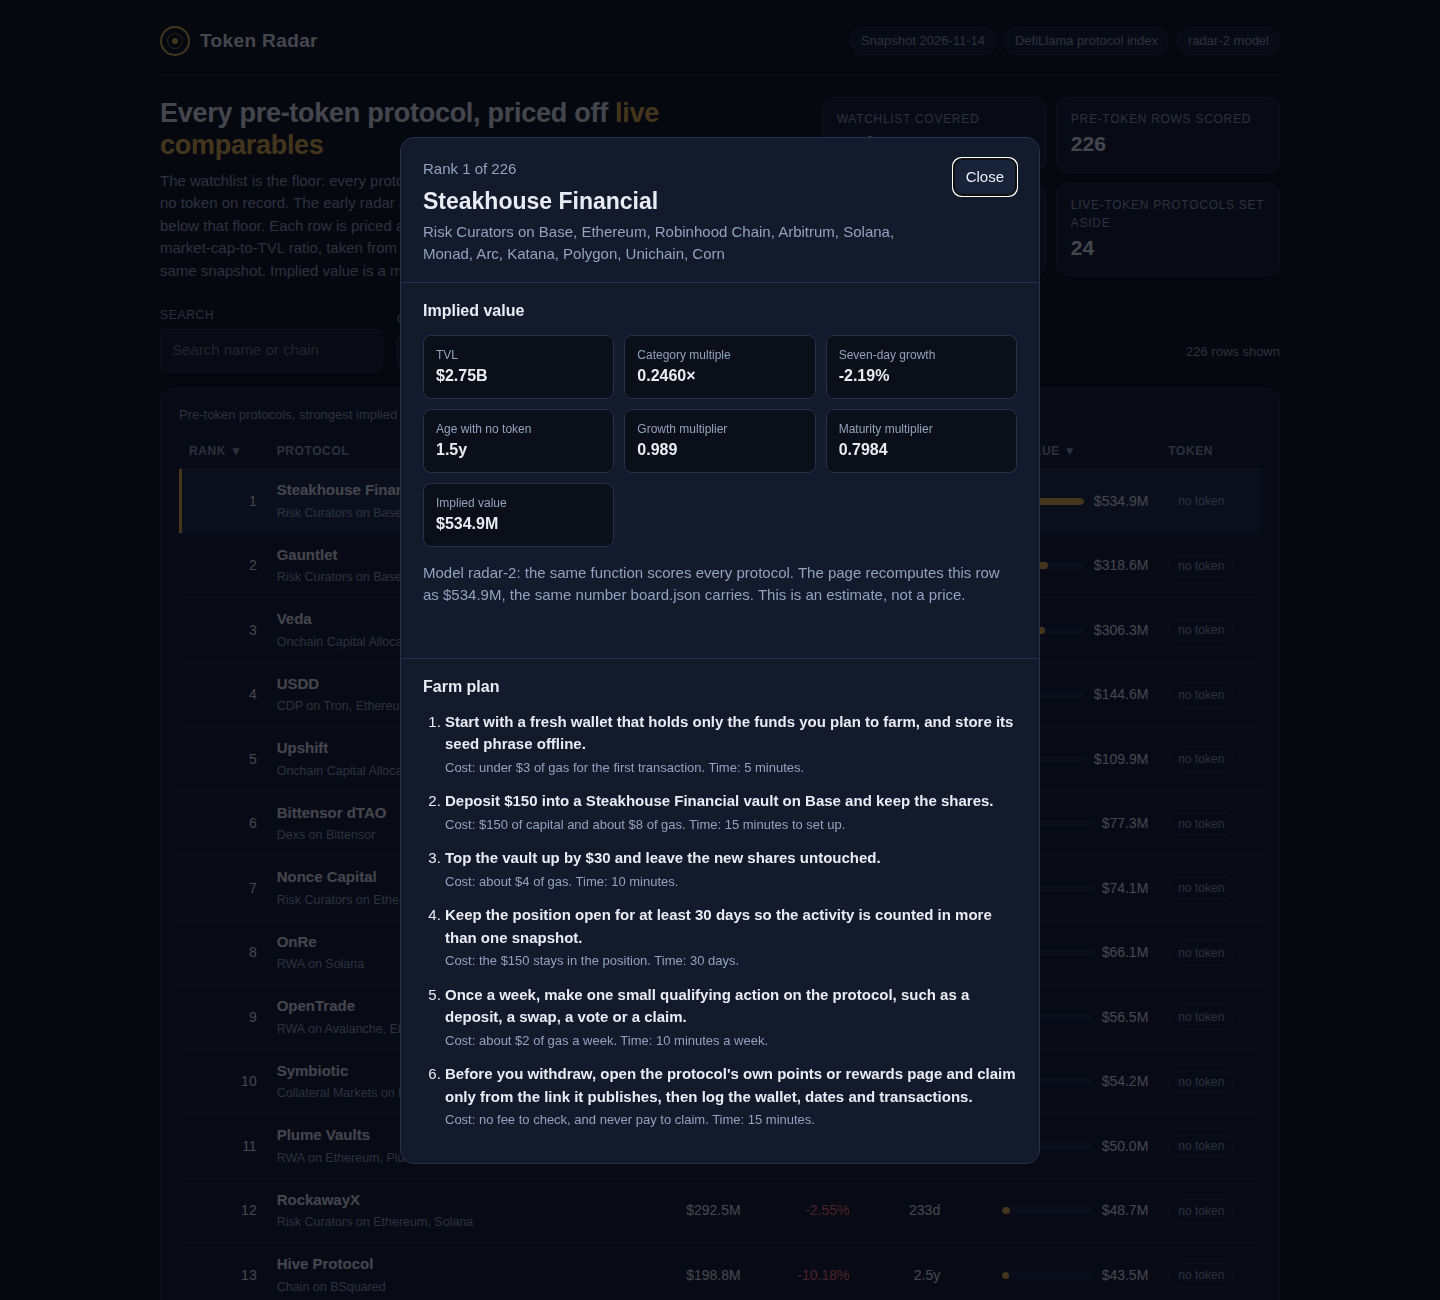
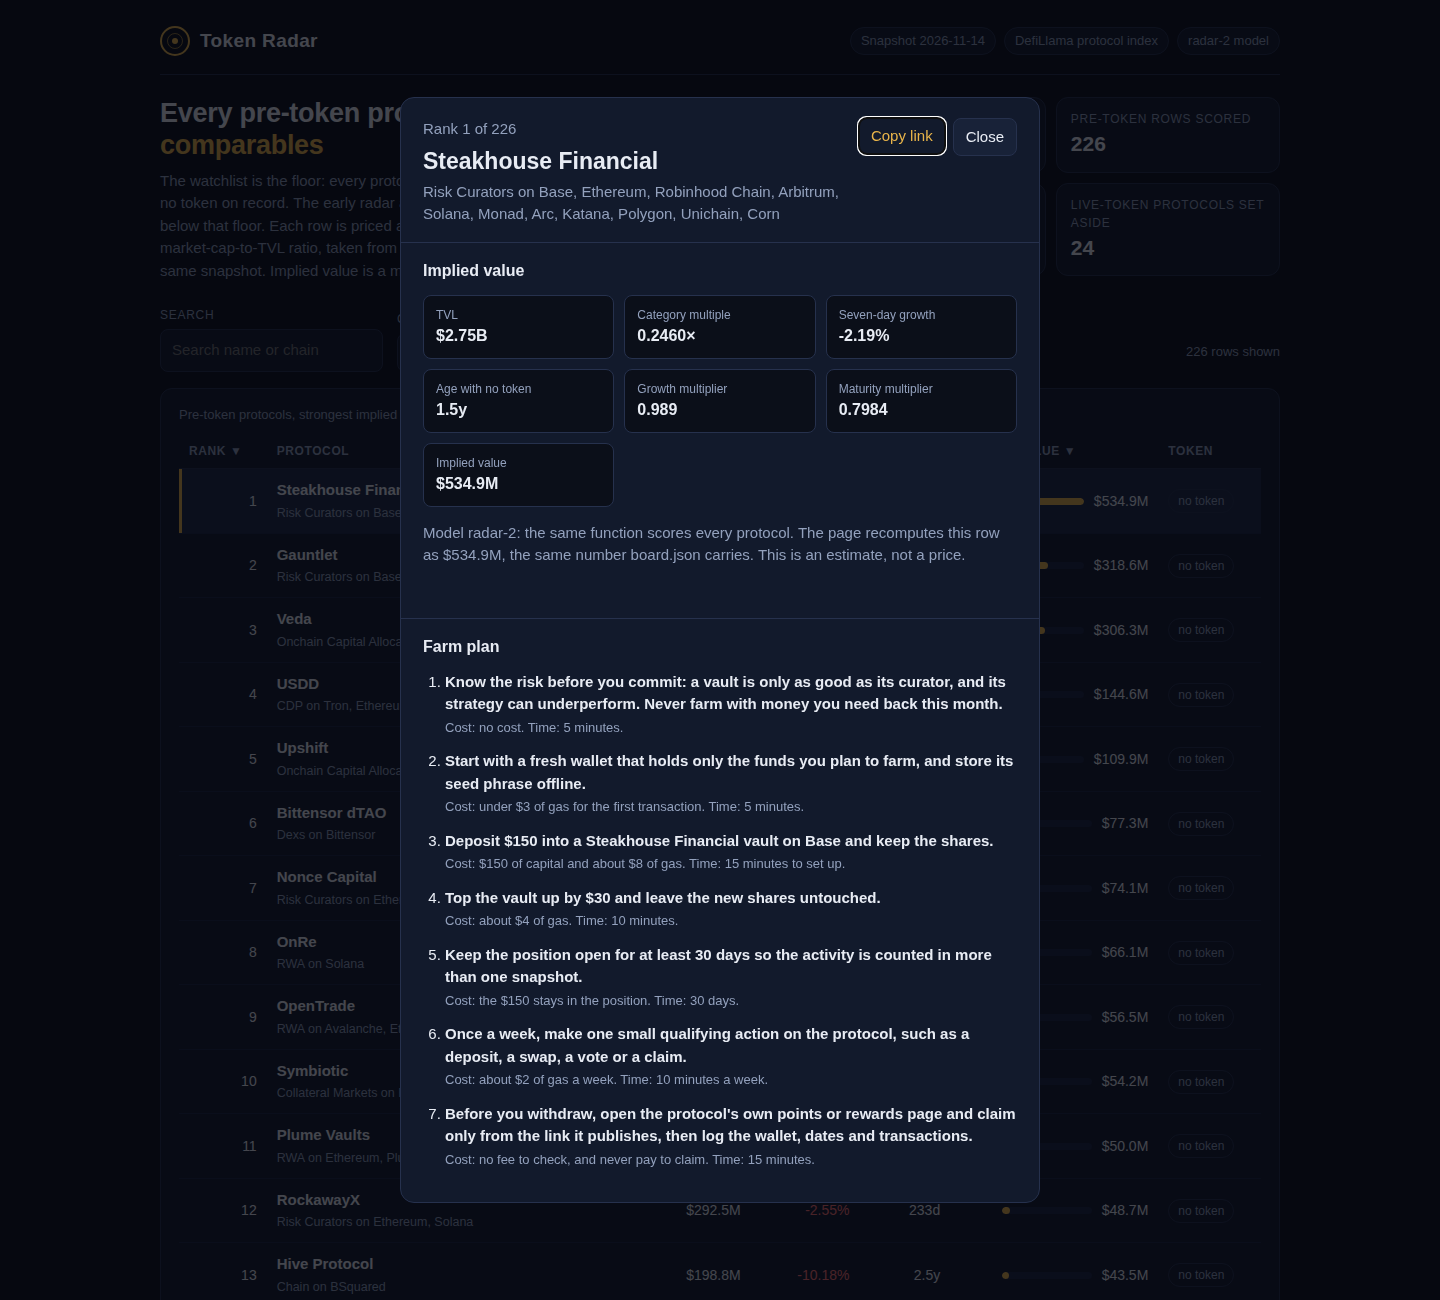
Farm plans name the risk first; copy-link button; run summary

Changed region(s): [[0.2812, 0.4923, 0.6875, 0.8923], [0.2812, 0.0615, 0.7188, 0.4615], [0.5625, 0.2154, 0.6562, 0.3692]]

diff --git a/dashboard/app.js b/dashboard/app.js
@@ -118,12 +118,32 @@
     if (s.length < 20) s = s + " Hold the position and check the protocol's own page.";
     return s;
   }
+  // What can go wrong with this category, in one line: the plan names the risk before the money
+  // moves. This is the same derivation as lib/model.ts, so the page's plan matches board.json.
+  function riskFor(p) {
+    var c = (p.category || '').toLowerCase();
+    if (c.indexOf('lend') >= 0 || c.indexOf('cdp') >= 0 || c.indexOf('collateral') >= 0) return 'a supplied asset can be liquidated if the collateral behind it falls';
+    if (c.indexOf('dex') >= 0) return 'a liquidity position loses value when the two sides move apart';
+    if (c.indexOf('yield') >= 0) return 'yields compress as more capital chases the same strategy';
+    if (c.indexOf('leveraged farm') >= 0) return 'leverage multiplies losses as fast as gains, and the position can be liquidated';
+    if (c.indexOf('bridge') >= 0) return 'bridged funds depend on the bridge staying solvent and unhacked';
+    if (c.indexOf('liquid staking') >= 0 || c.indexOf('restak') >= 0 || c.indexOf('staking') >= 0) return 'the staking receipt can trade below the staked asset while exits queue';
+    if (c.indexOf('perpetual') >= 0 || c.indexOf('derivative') >= 0) return 'a leveraged position can be liquidated by one sharp move';
+    if (c.indexOf('prediction') >= 0) return 'a prediction market pays nothing if the outcome goes the other way';
+    if (c.indexOf('curator') >= 0 || c.indexOf('allocator') >= 0 || c.indexOf('onchain capital') >= 0) return 'a vault is only as good as its curator, and its strategy can underperform';
+    if (c.indexOf('stable') >= 0) return 'a stable asset can lose its peg if its backing is questioned';
+    if (c.indexOf('rwa') >= 0) return 'real-world backing depends on the issuer staying solvent and honest';
+    if (c.indexOf('insurance') >= 0) return 'cover pays only for the events the policy names, and claims can be disputed';
+    if (c.indexOf('basis') >= 0) return 'the funding rate can turn negative and the strategy pays instead of earning';
+    return 'an airdrop is never guaranteed, and the position can lose value while you wait';
+  }
   function farmSteps(p) {
     var chain = chainOf(p);
     var capital = capitalFor(p);
     var hold = holdDaysFor(p.age_days);
     var gas = capital >= 150 ? 8 : 4;
     return [
+      { text: 'Know the risk before you commit: ' + riskFor(p) + '. Never farm with money you need back this month.', cost: 'no cost', time: '5 minutes' },
       { text: 'Start with a fresh wallet that holds only the funds you plan to farm, and store its seed phrase offline.', cost: 'under $3 of gas for the first transaction', time: '5 minutes' },
       { text: actionFor(p, capital, chain), cost: '$' + capital + ' of capital and about $' + gas + ' of gas', time: '15 minutes to set up' },
       { text: secondActionFor(p, capital, chain), cost: 'about $' + Math.max(2, Math.round(gas / 2)) + ' of gas', time: '10 minutes' },
@@ -368,7 +388,18 @@
         el('h2', { id: 'detail-title', text: row.name }),
         el('p', { class: 'sub', text: (row.category || 'Other') + ' on ' + (row.chains && row.chains.length ? row.chains.join(', ') : 'an unnamed chain') })
       ),
-      el('button', { class: 'close', type: 'button', 'aria-label': 'Close details', text: 'Close', onclick: function () { dialog.close(); } })
+      el('div', { class: 'detail-actions' },
+        el('button', { class: 'copy', type: 'button', 'aria-label': 'Copy a link to this row', text: 'Copy link', onclick: function (ev) {
+          var link = window.location.href.split('#')[0] + '#p=' + row.slug;
+          var done = function () { ev.target.textContent = 'Copied'; window.setTimeout(function () { ev.target.textContent = 'Copy link'; }, 1500); };
+          if (navigator.clipboard && navigator.clipboard.writeText) {
+            navigator.clipboard.writeText(link).then(done, function () { window.prompt('Copy this link', link); });
+          } else {
+            window.prompt('Copy this link', link);
+          }
+        } }),
+        el('button', { class: 'close', type: 'button', 'aria-label': 'Close details', text: 'Close', onclick: function () { dialog.close(); } })
+      )
     ));
     dialog.appendChild(el('section', { class: 'detail-section' },
       el('h3', { text: 'Implied value' }),

diff --git a/lib/model.ts b/lib/model.ts
@@ -400,9 +400,29 @@ function secondActionFor(p: SnapshotProtocol, capital: number, chain: string): s
   return `Return to ${name} once a week and repeat the deposit with $${Math.max(10, Math.round(capital / 5))} more.`;
 }
 
+/** What can go wrong with this category, in one line: the plan names the risk before the money moves. */
+function riskFor(p: SnapshotProtocol): string {
+  const c = (p.category ?? '').toLowerCase();
+  if (c.includes('lend') || c.includes('cdp') || c.includes('collateral')) return 'a supplied asset can be liquidated if the collateral behind it falls';
+  if (c.includes('dex')) return 'a liquidity position loses value when the two sides move apart';
+  if (c.includes('yield')) return 'yields compress as more capital chases the same strategy';
+  if (c.includes('leveraged farm')) return 'leverage multiplies losses as fast as gains, and the position can be liquidated';
+  if (c.includes('bridge')) return 'bridged funds depend on the bridge staying solvent and unhacked';
+  if (c.includes('liquid staking') || c.includes('restak') || c.includes('staking')) return 'the staking receipt can trade below the staked asset while exits queue';
+  if (c.includes('perpetual') || c.includes('derivative')) return 'a leveraged position can be liquidated by one sharp move';
+  if (c.includes('prediction')) return 'a prediction market pays nothing if the outcome goes the other way';
+  if (c.includes('curator') || c.includes('allocator') || c.includes('onchain capital')) return 'a vault is only as good as its curator, and its strategy can underperform';
+  if (c.includes('stable')) return 'a stable asset can lose its peg if its backing is questioned';
+  if (c.includes('rwa')) return 'real-world backing depends on the issuer staying solvent and honest';
+  if (c.includes('insurance')) return 'cover pays only for the events the policy names, and claims can be disputed';
+  if (c.includes('basis')) return 'the funding rate can turn negative and the strategy pays instead of earning';
+  return 'an airdrop is never guaranteed, and the position can lose value while you wait';
+}
+
 /**
- * A protocol's farm plan: six steps, each an action with a cost and a time. The plan is derived from
+ * A protocol's farm plan: seven steps, each an action with a cost and a time. The plan is derived from
  * the protocol's own record (category, chains, TVL, age), never from a hand-written list of names.
+ * The first step names the category's risk, so the plan never reads as a promise.
  */
 export function farmSteps(p: SnapshotProtocol, age: number | null): FarmStep[] {
   const chain = chainOf(p);
@@ -410,6 +430,11 @@ export function farmSteps(p: SnapshotProtocol, age: number | null): FarmStep[] {
   const hold = holdDaysFor(age);
   const gas = capital >= 150 ? 8 : 4;
   return [
+    {
+      text: `Know the risk before you commit: ${riskFor(p)}. Never farm with money you need back this month.`,
+      cost: 'no cost',
+      time: '5 minutes',
+    },
     {
       text: `Start with a fresh wallet that holds only the funds you plan to farm, and store its seed phrase offline.`,
       cost: 'under $3 of gas for the first transaction',

diff --git a/main.ts b/main.ts
@@ -85,7 +85,17 @@ for (const name of shots) {
 // The dossier is written last: the scorer rebuilds it from this /output and compares bytes.
 writeFileSync(join(out, 'dossier.json'), buildDossier(out, { text_max_bytes: TEXT_MAX_BYTES, screenshots: SCREENSHOT_CAPS, dashboard: { max_files: 400, max_bytes: 4_194_304 } }));
 
+/** The run's summary, for the operator: coverage and the value range, not just the file list. */
+function runSummary(): string {
+  const covered = board.filter((r) => snapshot.watchlist.includes(r.slug)).length;
+  const top = board[0]?.implied_value_usd ?? 0;
+  const bottom = board[board.length - 1]?.implied_value_usd ?? 0;
+  const steps = board.reduce((n, r) => n + r.farm_steps.length, 0);
+  return `token radar: watchlist ${covered}/${snapshot.watchlist.length} covered, implied value $${top.toLocaleString('en-US')} down to $${bottom.toLocaleString('en-US')}, ${steps} farm steps written\n`;
+}
+
 process.stdout.write(
   `token radar: ${snapshot.protocols.length} protocols, ${snapshot.watchlist.length} on the watchlist, ${board.length} rows scored (${radar.early_size} early, ${radar.live_size} live set aside)\n` +
-    `token radar: wrote ${join(out, 'board.json')}, ${join(out, 'data.js')}, ${join(out, 'dashboard')} (${dash.length} files), ${join(out, 'screenshots')} (${shots.length} images) and ${join(out, 'dossier.json')}\n`,
+    `token radar: wrote ${join(out, 'board.json')}, ${join(out, 'data.js')}, ${join(out, 'dashboard')} (${dash.length} files), ${join(out, 'screenshots')} (${shots.length} images) and ${join(out, 'dossier.json')}\n` +
+    runSummary(),
 );

diff --git a/dashboard/app.css b/dashboard/app.css
@@ -108,6 +108,9 @@ td.num, th.num { text-align: right; }
 .detail-head h2 { margin: 4px 0 2px; font-size: 23px; }
 .detail-head p { margin: 0; }
 .close { background: var(--panel-2); color: var(--text); border: 1px solid var(--line); border-radius: 8px; padding: 7px 12px; font: inherit; cursor: pointer; height: fit-content; }
+.detail-actions { display: flex; gap: 8px; height: fit-content; }
+.copy { background: transparent; color: var(--gold); border: 1px solid var(--gold-dim); border-radius: 8px; padding: 7px 12px; font: inherit; cursor: pointer; height: fit-content; white-space: nowrap; }
+.copy:hover { background: rgba(232, 184, 96, 0.08); }
 .detail-section { padding: 16px 22px 20px; border-top: 1px solid var(--line); margin-top: 16px; }
 .detail-section h3 { margin: 0 0 12px; font-size: 16px; }
 .equation { display: grid; grid-template-columns: repeat(3, 1fr); gap: 10px; }

diff --git a/dashboard/index.html b/dashboard/index.html
@@ -3,11 +3,14 @@
 <head>
 <meta charset="utf-8">
 <meta name="viewport" content="width=device-width, initial-scale=1">
+<meta name="description" content="Token Radar ranks every pre-token protocol by the value the live market implies, with a farm plan for each.">
+<meta name="theme-color" content="#0a0f1e">
 <title>Token Radar — pre-token protocols priced off live comparables</title>
 <link rel="stylesheet" href="app.css">
 </head>
 <body>
 <a class="skip" href="#board">Skip to the board</a>
+<noscript><p class="noscript">Token Radar needs JavaScript: the board is rendered in the browser from the snapshot data.</p></noscript>
 <main id="board" tabindex="-1" aria-busy="true"></main>
 <script src="../data.js"></script>
 <script src="app.js"></script>
